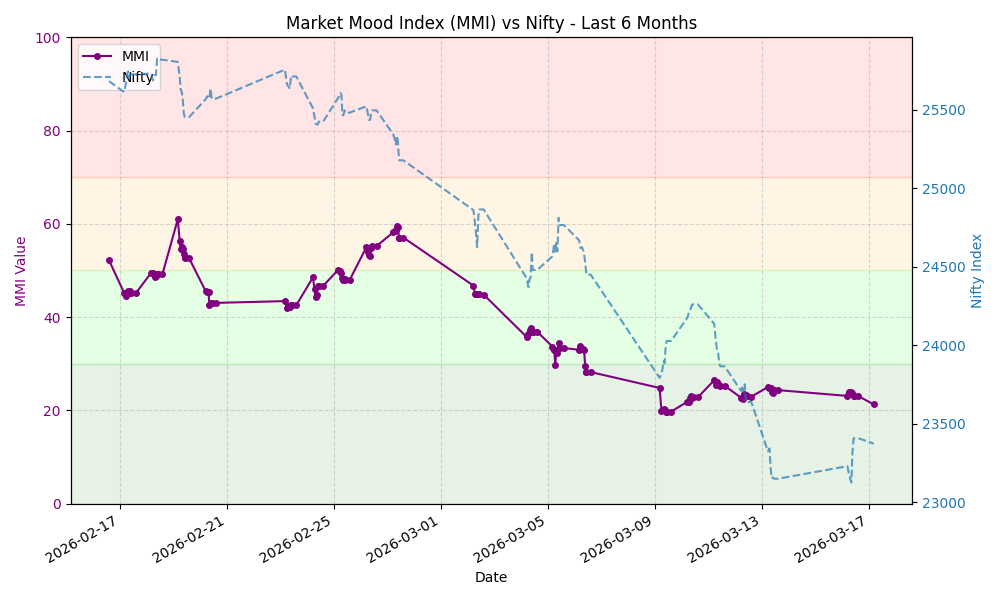
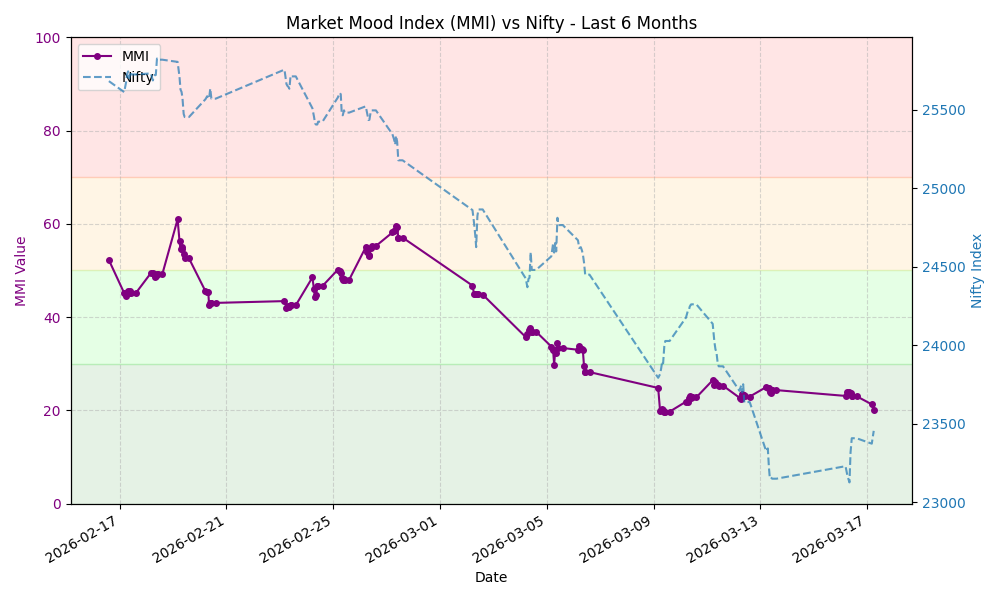
Update MMI data and chart

diff --git a/README.md b/README.md
@@ -7,8 +7,8 @@ This repository automatically fetches the MMI value, stores the history, and gen
 
 ## Latest MMI Value
 
-**21.29** - **Extreme Fear**
-<small>Last Updated: 2026-03-17 04:03 UTC</small>
+**20.03** - **Extreme Fear**
+<small>Last Updated: 2026-03-17 05:48 UTC</small>
 
 ## MMI Trend (Last 30 Days)
 
